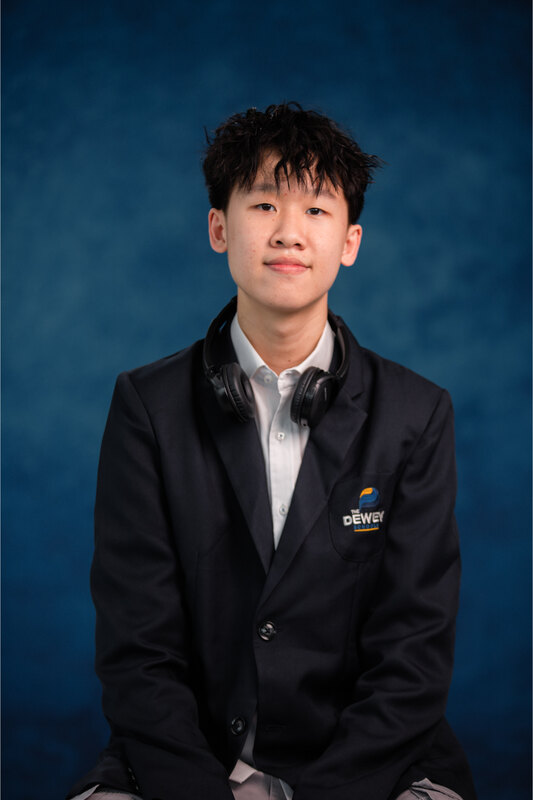
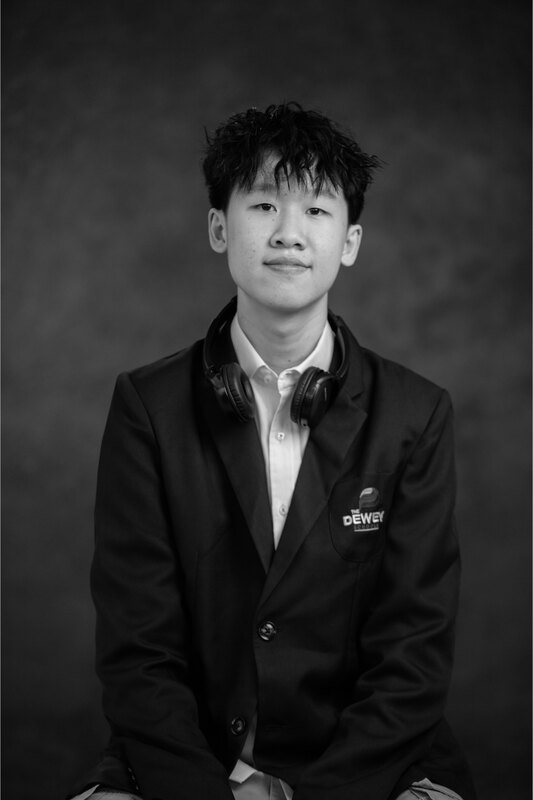
Update Quang Bui affiliation and photo treatment

diff --git a/index.html b/index.html
@@ -2062,7 +2062,7 @@ img { max-width: 100%; display: block; }
                         <div class="team-member reveal">
                             <img src="assets/Photos/QuangBui.jpeg" alt="Quang Bui" class="member-photo" loading="lazy">
                             <div class="member-name">Quang Bui</div>
-                            <div class="member-affiliation">The Dewey Schools</div>
+                            <div class="member-affiliation">The Dewey Schools, MIT Critical Data</div>
                         </div>
 
                         <div class="team-member reveal">
